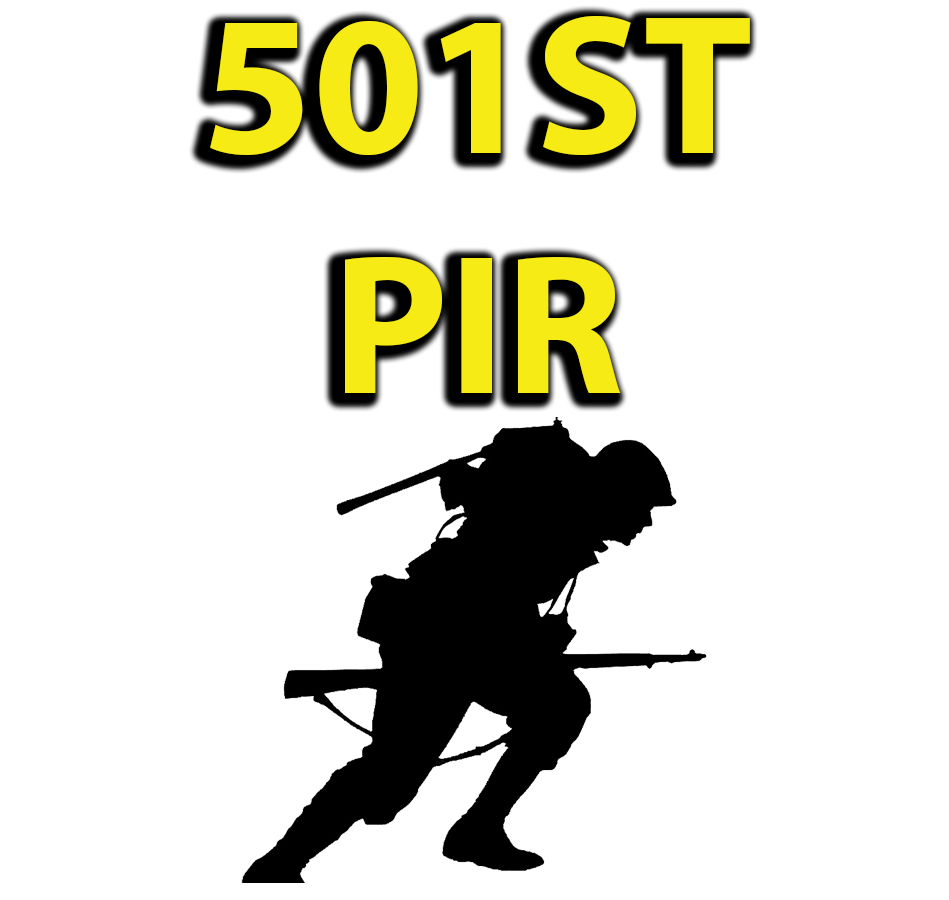
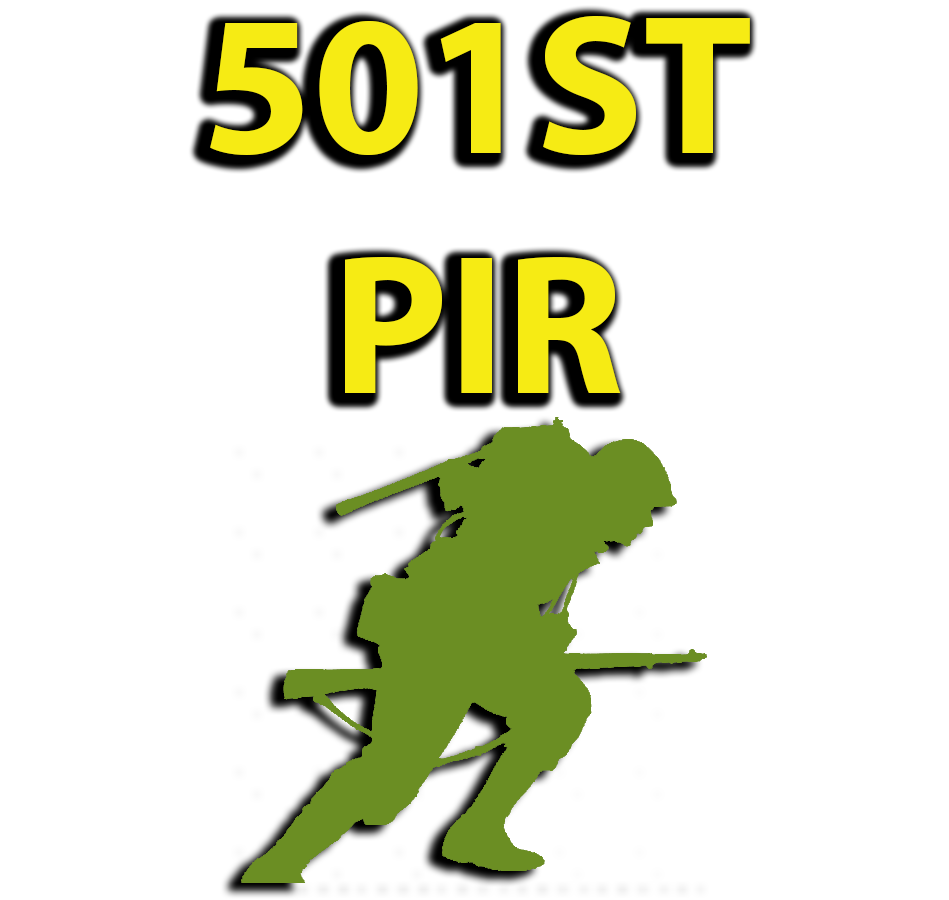
Update Imagery
Update Images and css for legend

Changed region(s): [[0.2139, 0.4667, 0.764, 0.9956]]

diff --git a/js/app.js b/js/app.js
@@ -15,9 +15,9 @@
             attribution: ''
         });
 
-    map = L.map('map')
+    map = L.map('map', { zoomControl: false })
         .addLayer(tiles)
-        .setView([50.62246762810257, -1.538157657576358], 8);
+        .setView([50.62246762810257, -1.538157657576358], 7);
 
     map.on('click', function (e) {
         console.log("Lat, Lon : " + e.latlng.lat + ", " + e.latlng.lng)
@@ -275,7 +275,7 @@
                     `<p>Between 02:00 and 09:30 Lt Col Robert G. Cole assembled 75 men from the 101st and 82nd airborne to assault the coastal gun batteries.  They encountered one enemy convoy killing multiple Germans and taking 10 prisoners.  Upon reaching the outskirts of the gun battery they discovered that the battery had been dismantled and removed after an earlier air raid.</p>`
                 );
                 map.flyTo([49.446709410674615, -1.2467761260109491],
-                    13);
+                    12);
                 if (map.hasLayer(objectives)) {
                     map.removeLayer(objectives)
                 }
@@ -305,7 +305,7 @@
                     'Lt. Col. Cassidy landed near St. Germain-de-Varreville and at 06:30 gathered a small force to assault the WXYZ complex containing a barracks of German soldiers that were previously manning the coastal battery.  Lt. Col. Cassidy along with 15 men killed or captured about 150 German soldiers.  Near the end of the raid Lt. Col. Michaelis arrived with an additional 200 men to link up with Cassidys men.'
                 );
                 map.flyTo([49.44994457295905, -1.2495182552327977],
-                    13);
+                    12);
                 if (map.hasLayer(objectives)) {
                     map.removeLayer(objectives)
                 }
@@ -332,7 +332,7 @@
                     'After capturing the WXYZ complex a defensive line was established near Foucarville'
                 );
                 map.flyTo([49.43612943390729, -1.259608261946174],
-                    13);
+                    12);
                 if (map.hasLayer(objectives)) {
                     map.removeLayer(objectives)
                 }
@@ -360,7 +360,7 @@
                     'At 07:30 Lt. Col. Cole had captured Exit 3 and 4 along the causeway, however Exit 4 was covered by German artillary fire. Coles forces set an ambush for any German forces retreating through Exit 3 and 4.  An estimated 75 Germans were killed as they retreated up the exits.'
                 );
                 map.flyTo([49.418442985071856, -1.241967180742152],
-                    13);
+                    12);
                 if (map.hasLayer(objectives)) {
                     map.removeLayer(objectives)
                 }
@@ -479,7 +479,7 @@
             <input type="radio" name="tabs" checked="checked" id="tab1" />
             <label for="tab1">American Units</label>
             <div id="tab-content1" class="content">
-            <div class = 'row'><div class = 'col'><img src = 'img/327th.png' height = '50px' width = '50px'>327th Glider Infantry Regiment</div><div class = 'col'><img src = 'img/501st.png' height = '50px' width = '50px'>501st Parachute Infantry Regiment</div><div class = 'col'><img src = 'img/502nd.png' height = '50px' width = '50px'>502nd Parachute Infantry Regiment</div><div class = 'col'><img src = 'img/506th.png' height = '50px' width = '50px'>506th Parachute Infantry Regiment</div><div class = 'col'><img src = 'img/sherman.PNG' height = '50px' width = '50px'>2nd Armored Division</div></div>
+            <div class = 'row'><div class = 'col'><img src = 'img/327th.png' height = '50px' width = '50px'><br>327th Glider Infantry Regiment</div><div class = 'col'><img src = 'img/501st.png' height = '50px' width = '50px'><br>501st Parachute Infantry Regiment</div><div class = 'col'><img src = 'img/502nd.png' height = '50px' width = '50px'><br>502nd Parachute Infantry Regiment</div><div class = 'col'><img src = 'img/506th.png' height = '50px' width = '50px'><br>506th Parachute Infantry Regiment</div><div class = 'col'><img src = 'img/sherman.PNG' height = '50px' width = '50px'><br>2nd Armored Division</div></div>
             </div>
         </li>
         
@@ -487,7 +487,7 @@
           <input type="radio" name="tabs" id="tab2" />
           <label for="tab2">German Units</label>   
           <div id="tab-content2" class="content">
-          <div class = 'row'><div class = 'col'><img src = 'img/6th.png' height = '50px' width = '50px'>6th Fallshirmjager Division(Parachute Infantry)</div><div class = 'col'><img src = 'img/1058th.png' height = '50px' width = '50px'>1058th Grenadier Regiment</div><div class = 'col'><img src = 'img/panzer.png' height = '50px' width = '50px'>17th Panzergrenadier Division</div></div>
+          <div class = 'row'><div class = 'col'><img src = 'img/6th.png' height = '50px' width = '50px'><br>6th Fallshirmjager Division(Parachute Infantry)</div><div class = 'col'><img src = 'img/1058th.png' height = '50px' width = '50px'><br>1058th Grenadier Regiment</div><div class = 'col'><img src = 'img/panzer.png' height = '50px' width = '50px'><br>17th Panzergrenadier Division</div></div>
            </div>
         </li>
             
@@ -532,7 +532,7 @@
             $(".h3Time").html(`June ${time}th`)
             if (time == 7) {
                 //attack on St Come-du-Mont
-                map.flyTo([49.33475481560422, -1.273214772369016], 13);
+                map.flyTo([49.352251420906114, -1.2465870983165919], 13);
                 d3.select('#content').text(
                     `The 501st failed to capture St. Come-du-Mont, one of it's D-day objectives so the consolidated 506th was brought up, with the 501st behind, to capture and assault the town for it's vital highway connection to Carentan.  The 502nd covered the right flank and aided in encircling the city to prevent German forces from escaping.  The 327th Glider Infantry protected the left flank and was held in reserve.  The 506th encountered heavy resistance at the highway junction to the south at what is now called Dead Mans Corner.  By the end of June 7th 1/3 of the German 6th Paratrooper regiment surrendered but St. Come-du-Mont was still held by the Germans.`
                 );
@@ -594,7 +594,7 @@
                 d3.select('#content').text(
                     `The 101st finished consolidating all troops including and setup defensive positions on the Carentan highway with the 502nd on the right next to the Douve River, the 506th on the highway proper, and the 327th to the left near Brevands.  The 501st was held in reserve to the east of 327.  Aerial recon indicated Carentan was lightly defended, and a plan of double envelopment was devised to capture the town and merge the Utah and Omaho beach heads.  The 502nd was to capture the hills to the southwest of Carentan to prevent any German withdrawl.  The 6th FJR and 1058th had retreated to Carentan the previous day, but after losing the majority of it's forces over the last three days the 1058th was not considered combat effective, leaving the defense of Carental solely to the 6th FJR.  The 6th FJR was reinforced with 2 Ost Battalions made up of captured soviet soldiers pressed into service.  They had hoped to be reinforced by the 17th SS Panzer Grenadiers Regiment, but the 507th's misdrop on d-day had placed them directly between the 17th and Carentan greatly aiding the rest of the 101st in the assualt.`
                 );
-                map.flyTo([49.303682080592395, -1.2464258521806684], 13);
+                map.flyTo([49.323840104547486, -1.2503789332765927], 13);
                 d3.select("#d6").remove();
                 d3.select("#d17").remove();
                 d3.select("#d1058").remove();
@@ -649,7 +649,7 @@
                 d3.select('#content').text(
                     `As German fire subsided over night the 502nd moved the rest of its troops past the Belgian gate taking cover on both sides of the highway.  Scouts approached the farmhouse early in the morning, but were cut down by concentrated fire.  Lt. Col. Cole ordered artillary fire on the farmhouse, but the German fire did not subside.  at 06:15 using a smoke screen Lt. Col. Cole ordered a bayonette charge at the German positions.  The oposition was overwhelmed in close quarters combat which earned Lt. Col. Cole the Medal of Honor.  The rest of the 502nd was called up to reinforce Cole, but came under heavy mortar fire and was only able to add to Cole's defensive positions.  Repeated German counter attacks fell on the 502nd, with the final one at 18:30 nearly overwhelming the 3rd batallion.  Rolling artillery fire was called in, so close that many American troops were killed with friendly fire, but the Germans were finally pushed back.  The 327th crossed the canal via a footbridge, but as they advanced came under mortar fire and were pinned down a half mile short of Carentan.  The German 6th FRJ nearly out of ammunition withdrew during the night leaving only a small rear-guard within the city.`
                 );
-                map.flyTo([49.312995117070365, -1.2589214031919327], 16);
+                map.flyTo([49.312995117070365, -1.2589214031919327], 15);
                 d3.select("#d6").remove();
                 d3.select("#d17").remove();
                 d3.select("#d1058").remove();
@@ -679,7 +679,7 @@
                 d3.select('#content').text(
                     `On June 12th the 506th and 501st were brought in from their reserve positions to assist in the assault on Hill 30th just southwest of Carentan.  Their movements were covered under an all-night naval bombardmant.  At 02:00 the 506th moved down the highway passing through the 502nd's defensive positions, then cross country to the west capturing La Billonnerie at 05:00.  The 501st traveling to the east, passed the 327th, crossed the canal and reached Hill 30 by 06:30.  At 06:00 the 506th and 401st GIR 1st battalion attached to the 327th attacked Carentan capturing the city by 07:30.  By the afternoon the 506th and 501st began advancing southwest where they met heavy resistance from the 17th SS Panzergrenadiers and 6th FJR that had retreated from the city.  The Germans having the higher ground dug in and battled the Americans throughout the night.`
                 );
-                map.flyTo([49.303682080592395, -1.2464258521806684], 13);
+                map.flyTo([49.312202701482626, -1.2414564058825839], 13);
                 d3.select("#d6").remove();
                 d3.select("#d17").remove();
                 d3.select("#d1058").remove();
@@ -708,7 +708,7 @@
                 d3.select('#content').text(
                     `At dawn just as the Americans were set to attack the German line, they came under heavy assualt from tanks and artillery.  The 17th Panzer and 6th FJR hit the 501st hard on the left flank causing them to retreat. The left flank of the 506th also began to collapse under heavy fire, prompting the immediate dismissal of the F company commander.  The 502nd took up positions to the right of the 506th but by 13:00 they had suffered massive casualties and were on the verge of collapse.  60 tanks from the 2nd Armored Division arrived just in time to prevent the 506th and 502nd from being overrun, inflicting severe casualites on the Germans forcing them to withdraw to the southwest.  The American victory at Carentan allowed Utah and Omaha beach to be linked creating a secure lodgement for further American operations in France.`
                 );
-                map.flyTo([49.28566210821775, -1.2832497340930973], 14);
+                map.flyTo([49.289560761603184, -1.283680024497065], 14);
                 d3.select("#d6").remove();
                 d3.select("#d17").remove();
                 d3.select("#d1058").remove();
@@ -1106,7 +1106,7 @@
             //remove next day button as this will span 2 days up to the battle of Carentan
             d3.select('.btn').remove();
             //fly to St. Con-du-mont
-            map.flyTo([49.33475481560422, -1.273214772369016], 13);
+            map.flyTo([49.352251420906114, -1.2465870983165919], 13);
             //update content to describe troop movements
             d3.select('#content').text(
                 `The 501st failed to capture St. Come-du-Mont, one of it's D-day objectives so the consolidated 506th was brought up, with the 501st behind, to capture and assault the town for it's vital highway connection to Carentan.  The 502nd covered the right flank and aided in encircling the city to prevent German forces from escaping.  The 327th Glider Infantry protected the left flank and was held in reserve.  The 506th encountered heavy resistance at the highway junction to the south at what is now called Dead Mans Corner.  By the end of June 7th 1/3 of the German 6th Paratrooper regiment surrendered but St. Come-du-Mont was still held by the Germans.`

diff --git a/css/styles.css b/css/styles.css
@@ -30,15 +30,15 @@ body {
 #map {
     position: fixed;
     top: 15vh;
-    left: 10vw;
-    bottom: 15vh;
-    width: 80%;
+    left: 5vw;
+    bottom: 4vh;
+    width: 90%;
     opacity: 0.0;
 
 }
 
 .leaflet-tile {
-    filter: sepia(20%);
+    filter: sepia(40%);
 }
 
 svg {
@@ -162,6 +162,10 @@ svg {
     height: 22px;
 }
 
+/* .tabs .tab img {
+    cursor: pointer;
+} */
+
 
 /* styling for tabs */
 .tabs {
@@ -212,8 +216,8 @@ svg {
     z-index: 0;
     /* or display: none; */
     overflow: hidden;
-    width: 600px;
-    padding: 25px;
+    /* width: 600px; */
+    padding: 10px;
     position: absolute;
     top: 27px;
     left: 0;
@@ -224,7 +228,7 @@ svg {
     background-size: cover;
     color: rgba(78, 71, 61, 1);
     font-family: "Josefin Sans";
-    font-size: 1.2em;
+    font-size: 1em;
     opacity: 0;
     transition: opacity 400ms ease-out;
     text-align: center;

diff --git a/index.html b/index.html
@@ -21,7 +21,7 @@
         <div class="crawl">
 
             <div class="title">
-                <h1>June 6th 1944 D-Day....</h1>
+                <h2>June 6th 1944 D-Day....</h2>
             </div>
 
             <p>156,000 American, British, and Canadian forces embarked on the largest amphibious military assault in
